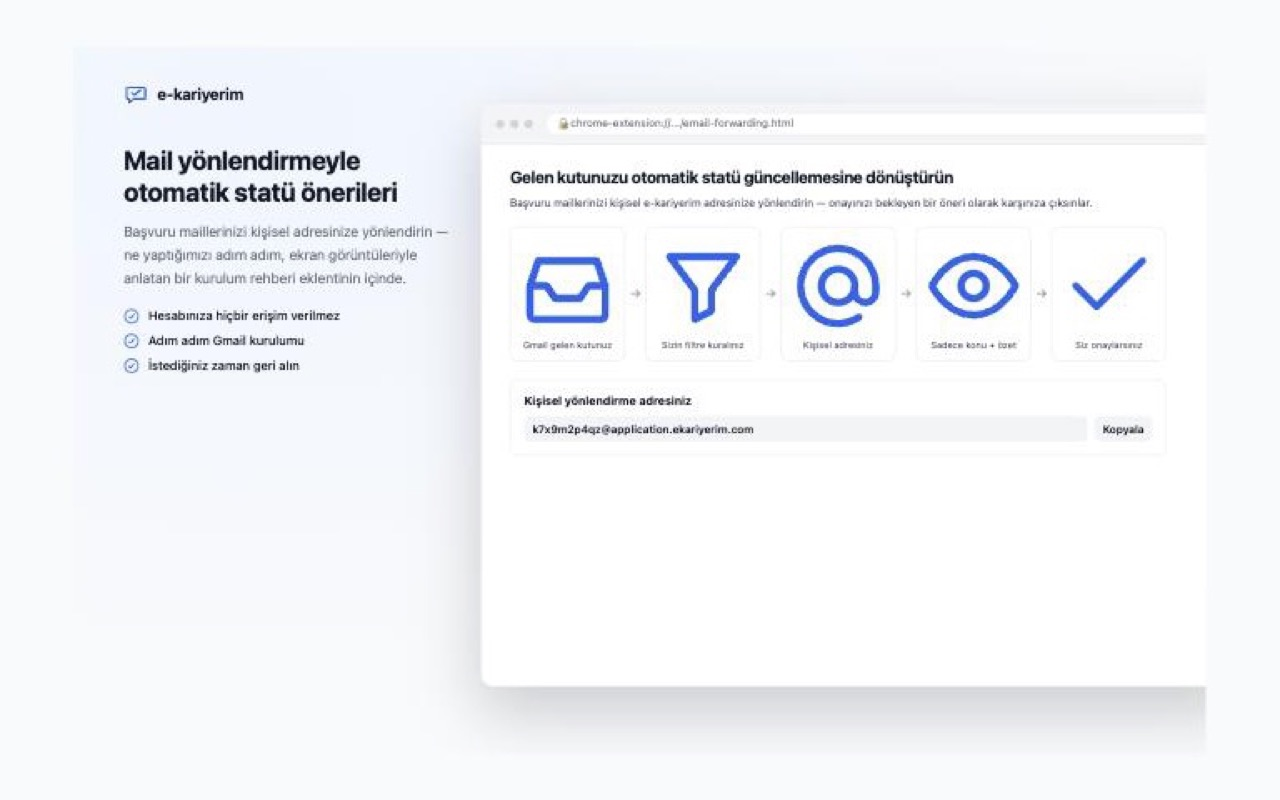
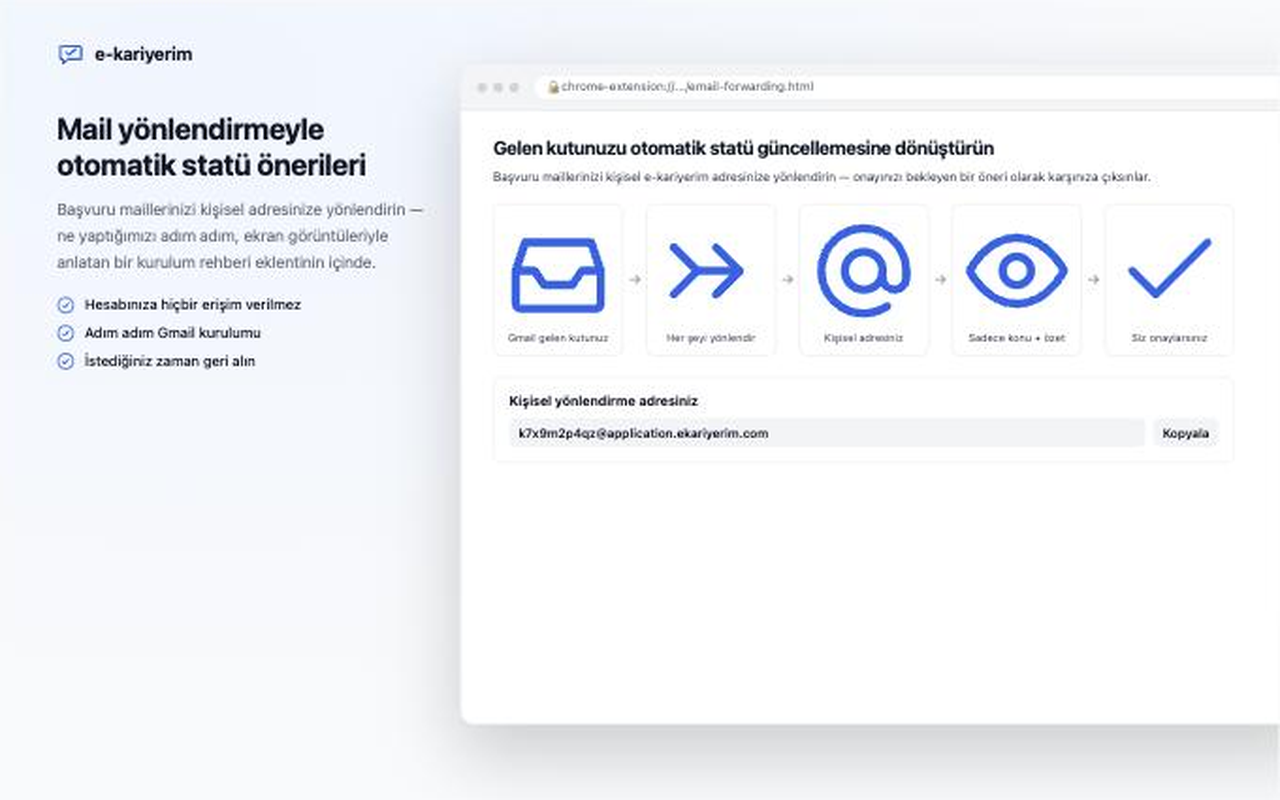
Refresh store listing for the 0.4.0 upload
Screenshots (regenerated from the store-listing scene-*.html mockups,
which now also carry the gear icon, language toggle, and updated
forwarding-flow icon/copy) and LISTING.md's detailed description were
both stale: the description still described the old per-sender Gmail
filter, which the forwarding guide no longer sets up.

PUBLISHING_CHECKLIST.md is updated to reflect what's actually still
outstanding — the production host permissions/API URL item was already
done, the version bump isn't needed for this (still-unpublished) 0.4.0.

Claude-Session: https://claude.ai/code/session_01SK42rZw6mZLrt1r9H4RELY

diff --git a/extension/store-listing/screenshots/scene-job.html b/extension/store-listing/screenshots/scene-job.html
@@ -239,7 +239,11 @@
             <path d="M8 10.5l2.4 2.4L16.5 7.5"/>
           </svg>
           <h1>e-kariyerim</h1>
-          <button class="theme-toggle" type="button" aria-hidden="true" tabindex="-1"></button>
+          <button class="theme-toggle" type="button" aria-hidden="true" tabindex="-1">
+            <svg viewBox="0 0 24 24" fill="none" stroke="currentColor" stroke-width="1.75" stroke-linecap="round" stroke-linejoin="round"><circle cx="12" cy="12" r="3"/><path d="M19.4 15a1.65 1.65 0 00.33 1.82l.06.06a2 2 0 11-2.83 2.83l-.06-.06a1.65 1.65 0 00-1.82-.33 1.65 1.65 0 00-1 1.51V21a2 2 0 01-4 0v-.09A1.65 1.65 0 009 19.4a1.65 1.65 0 00-1.82.33l-.06.06a2 2 0 11-2.83-2.83l.06-.06A1.65 1.65 0 004.6 15a1.65 1.65 0 00-1.51-1H3a2 2 0 010-4h.09A1.65 1.65 0 004.6 9a1.65 1.65 0 00-.33-1.82l-.06-.06a2 2 0 112.83-2.83l.06.06A1.65 1.65 0 009 4.6a1.65 1.65 0 001-1.51V3a2 2 0 014 0v.09a1.65 1.65 0 001 1.51 1.65 1.65 0 001.82-.33l.06-.06a2 2 0 112.83 2.83l-.06.06A1.65 1.65 0 0019.4 9a1.65 1.65 0 001.51 1H21a2 2 0 010 4h-.09a1.65 1.65 0 00-1.51 1z"/></svg>
+          </button>
+          <button class="lang-toggle" type="button" aria-hidden="true" tabindex="-1">TR</button>
+          <button id="sceneThemeToggle" class="theme-toggle" type="button" aria-hidden="true" tabindex="-1"></button>
         </header>
         <main id="content">
           <span class="site-badge">LinkedIn</span>
@@ -260,7 +264,7 @@
     // Matches theme.js's sun/moon icon so the mockup's toggle button isn't blank.
     const SUN_ICON = `<svg viewBox="0 0 24 24" fill="none" stroke="currentColor" stroke-width="2" stroke-linecap="round"><circle cx="12" cy="12" r="4"/><path d="M12 2v2M12 20v2M4.93 4.93l1.41 1.41M17.66 17.66l1.41 1.41M2 12h2M20 12h2M4.93 19.07l1.41-1.41M17.66 6.34l1.41-1.41"/></svg>`;
     const MOON_ICON = `<svg viewBox="0 0 24 24" fill="none" stroke="currentColor" stroke-width="2" stroke-linecap="round" stroke-linejoin="round"><path d="M21 12.79A9 9 0 1111.21 3 7 7 0 0021 12.79z"/></svg>`;
-    document.querySelector(".theme-toggle").innerHTML = theme === "dark" ? SUN_ICON : MOON_ICON;
+    document.getElementById("sceneThemeToggle").innerHTML = theme === "dark" ? SUN_ICON : MOON_ICON;
   </script>
 </body>
 </html>

diff --git a/extension/store-listing/screenshots/scene-forwarding.html b/extension/store-listing/screenshots/scene-forwarding.html
@@ -177,7 +177,7 @@
       <div class="flow-diagram">
         <div class="flow-step"><span class="flow-icon"><svg viewBox="0 0 24 24" fill="none" stroke="currentColor" stroke-width="1.75" stroke-linecap="round" stroke-linejoin="round"><path d="M3 12h4l2 3h6l2-3h4"/><path d="M5 6h14l2 6v7a1 1 0 01-1 1H4a1 1 0 01-1-1v-7z"/></svg></span>Gmail gelen kutunuz</div>
         <span class="flow-arrow">→</span>
-        <div class="flow-step"><span class="flow-icon"><svg viewBox="0 0 24 24" fill="none" stroke="currentColor" stroke-width="1.75" stroke-linecap="round" stroke-linejoin="round"><path d="M4 5h16l-6 8v5l-4 2v-7z"/></svg></span>Sizin filtre kuralınız</div>
+        <div class="flow-step"><span class="flow-icon"><svg viewBox="0 0 24 24" fill="none" stroke="currentColor" stroke-width="1.75" stroke-linecap="round" stroke-linejoin="round"><path d="M13 7l5 5-5 5"/><path d="M4 7l5 5-5 5"/><path d="M18 12H9"/></svg></span>Her şeyi yönlendir</div>
         <span class="flow-arrow">→</span>
         <div class="flow-step"><span class="flow-icon"><svg viewBox="0 0 24 24" fill="none" stroke="currentColor" stroke-width="1.75" stroke-linecap="round" stroke-linejoin="round"><circle cx="12" cy="12" r="4"/><path d="M16 12v1.5a2.5 2.5 0 005 0V12a9 9 0 10-4 7.5"/></svg></span>Kişisel adresiniz</div>
         <span class="flow-arrow">→</span>

diff --git a/extension/store-listing/screenshots/scene-options.html b/extension/store-listing/screenshots/scene-options.html
@@ -113,6 +113,7 @@
           <path d="M8 10.5l2.4 2.4L16.5 7.5"/>
         </svg>
         <h1>e-kariyerim Settings</h1>
+        <button class="lang-toggle" type="button" aria-hidden="true" tabindex="-1">TR</button>
         <button class="theme-toggle" type="button" aria-hidden="true" tabindex="-1"></button>
       </header>
       <main id="content">

diff --git a/extension/store-listing/LISTING.md b/extension/store-listing/LISTING.md
@@ -45,17 +45,23 @@ Clicking it again on the same posting is safe: e-kariyerim recognizes the job by
 your existing application instead of creating a duplicate.
 
 EMAIL FORWARDING (NEW)
-Not every status update happens on a job site — most arrive by email. The extension now includes
-a full, step-by-step setup guide for forwarding those emails (interview invites, rejections,
-status updates) to your own personal e-kariyerim address, so they show up as suggestions you
-approve instead of updates you have to make by hand.
+Not every status update happens on a job site — most arrive by email. The extension includes a
+full, step-by-step setup guide for forwarding those emails (interview invites, rejections, status
+updates) to your own personal e-kariyerim address, so they show up as suggestions you approve
+instead of updates you have to make by hand.
 
-Open it from the extension's Settings page ("Set up Email Forwarding"). It walks you through
-adding your address as a forwarding destination in Gmail's own settings and creating a filter for
-the senders you choose — with a visual diagram of the whole flow, mockups of each Gmail screen,
-and your Gmail confirmation code shown right there the moment it arrives, so you never have to
-guess what's happening or hunt through another inbox to find it. Nothing is automated on Gmail's
-side: you set up and control the forwarding filter yourself, entirely inside your own account.
+Open it from the extension's Settings page ("Set up Email Forwarding") — one click away from the
+main popup too, via the gear icon. It walks you through adding your address as a forwarding
+destination in Gmail's own settings, then turning on Gmail's native "forward a copy of incoming
+mail" — a one-time step, so a new job application never needs new setup. Everything forwarded is
+relayed to us automatically after that, but we only ever turn an email into something you see when
+it's from a known job platform or a company you've already tracked in e-kariyerim — everything
+else is discarded immediately, never stored, never shown to anyone. Nothing is automated on
+Gmail's side: you turn forwarding on (and can turn it off again) entirely inside your own account.
+
+LANGUAGE
+The whole extension — the job-tracking popup, Settings, and the email-forwarding guide — works in
+Turkish or English. Switch anytime with the language toggle in any page's header.
 
 REQUIREMENTS
 You need an e-kariyerim account (ekariyerim.com) and a personal access token, generated from
@@ -93,17 +99,24 @@ Aynı ilanda tekrar tıklamak güvenlidir: e-kariyerim ilanı URL'sinden tanır 
 oluşturmak yerine mevcut başvurunuzu açar.
 
 MAIL YÖNLENDİRME (YENİ)
-Her statü güncellemesi bir iş sitesinde olmuyor — çoğu mail ile geliyor. Eklenti artık bu mailleri
+Her statü güncellemesi bir iş sitesinde olmuyor — çoğu mail ile geliyor. Eklenti bu mailleri
 (mülakat daveti, ret, statü güncellemesi) kişisel e-kariyerim adresinize yönlendirmeniz için tam,
 adım adım bir kurulum rehberi içeriyor — böylece elle güncellemeniz gereken bir şey yerine,
 onayınızı bekleyen bir öneri olarak karşınıza çıkıyorlar.
 
-Eklentinin Ayarlar sayfasından açın ("Mail Yönlendirme Kur"). Adresinizi Gmail'in kendi
-ayarlarında bir yönlendirme adresi olarak eklemekten, seçtiğiniz gönderenler için bir filtre
-oluşturmaya kadar sizi adım adım yönlendirir — tüm akışın görsel bir diyagramı, her Gmail ekranının
-örnek görünümü ve Gmail'in onay kodu geldiği an burada gösterilmesiyle; ne olduğunu tahmin etmenize
-ya da kodu bulmak için başka bir kutuya bakmanıza gerek kalmaz. Gmail tarafında hiçbir şey otomatik
-yapılmaz: yönlendirme filtresini tamamen kendi hesabınızda, siz kurar ve kontrol edersiniz.
+Eklentinin Ayarlar sayfasından açın ("Mail Yönlendirme Kur") — ana penceredeki dişli simgesiyle de
+bir tık uzakta. Adresinizi Gmail'in kendi ayarlarında bir yönlendirme adresi olarak eklemekten,
+Gmail'in kendi "gelen postanın bir kopyasını yönlendir" özelliğini açmaya kadar sizi adım adım
+yönlendirir — tek seferlik bir işlem, yeni bir başvuruda tekrar kurulum gerekmez. Bundan sonra
+gelen her e-posta otomatik olarak bize iletilir, ancak bir maili yalnızca bilinen bir ilan
+sitesinden/ATS'den ya da e-kariyerim'e zaten eklediğiniz bir şirketten geldiğinde bir şeye
+dönüştürürüz — geri kalanı anında elenir, asla saklanmaz, kimseye gösterilmez. Gmail tarafında
+hiçbir şey otomatik yapılmaz: yönlendirmeyi tamamen kendi hesabınızda siz açar (ve istediğinizde
+kapatırsınız).
+
+DİL
+Eklentinin tamamı — başvuru takip penceresi, Ayarlar ve mail yönlendirme rehberi — Türkçe veya
+İngilizce çalışır. Herhangi bir sayfanın başlığındaki dil butonuyla istediğiniz zaman değiştirin.
 
 GEREKSİNİMLER
 Bir e-kariyerim hesabına (ekariyerim.com) ve uygulama içindeki Ayarlar → Tarayıcı Eklentisi

diff --git a/extension/store-listing/PUBLISHING_CHECKLIST.md b/extension/store-listing/PUBLISHING_CHECKLIST.md
@@ -4,18 +4,17 @@
 
 - [ ] **Publish the privacy policy.** Put `PRIVACY_POLICY.md`'s content on a real page (e.g.
       `ekariyerim.com/privacy`) — the Dashboard rejects a submission with a token-storing extension
-      and no privacy policy URL.
-- [ ] **Decide the production host permissions.** `manifest.json` currently lists
-      `http://localhost/*` in `host_permissions` for local dev. Leaving it in doesn't block review,
-      but consider whether you want end users' installs pointed at localhost by default — the
-      `DEFAULT_API_BASE_URL` in `storage.js` is also `http://localhost:5151`. If the public listing
-      should default to the production API, update that constant and the options page placeholder
-      before packaging (see "Known limitation" note in `extension/README.md`).
+      and no privacy policy URL. **The one manual step actually blocking submission right now** —
+      everything else on this checklist is either already done or is a Dashboard action.
+- [x] **Production host permissions/API URL** — done. `manifest.json`'s `host_permissions` no
+      longer lists `http://localhost/*`, and `DEFAULT_API_BASE_URL` in `storage.js` is
+      `https://api.ekariyerim.com`.
 - [ ] **One-time $5 developer registration fee**, if you haven't published anything from this
       Google account before: https://chrome.google.com/webstore/devconsole (Chrome asks for this on
       first use of the Dashboard).
-- [ ] **Bump `manifest.json`'s `"version"`** for every subsequent upload — the Dashboard rejects a
-      re-upload with a version already used.
+- [x] **`manifest.json`'s `"version"`** is `0.4.0` — ahead of what's actually live (`0.3.2`), so this
+      upload doesn't need a bump. Bump it for every subsequent upload after this one — the Dashboard
+      rejects a re-upload with a version already used.
 
 ## Package the extension
 
